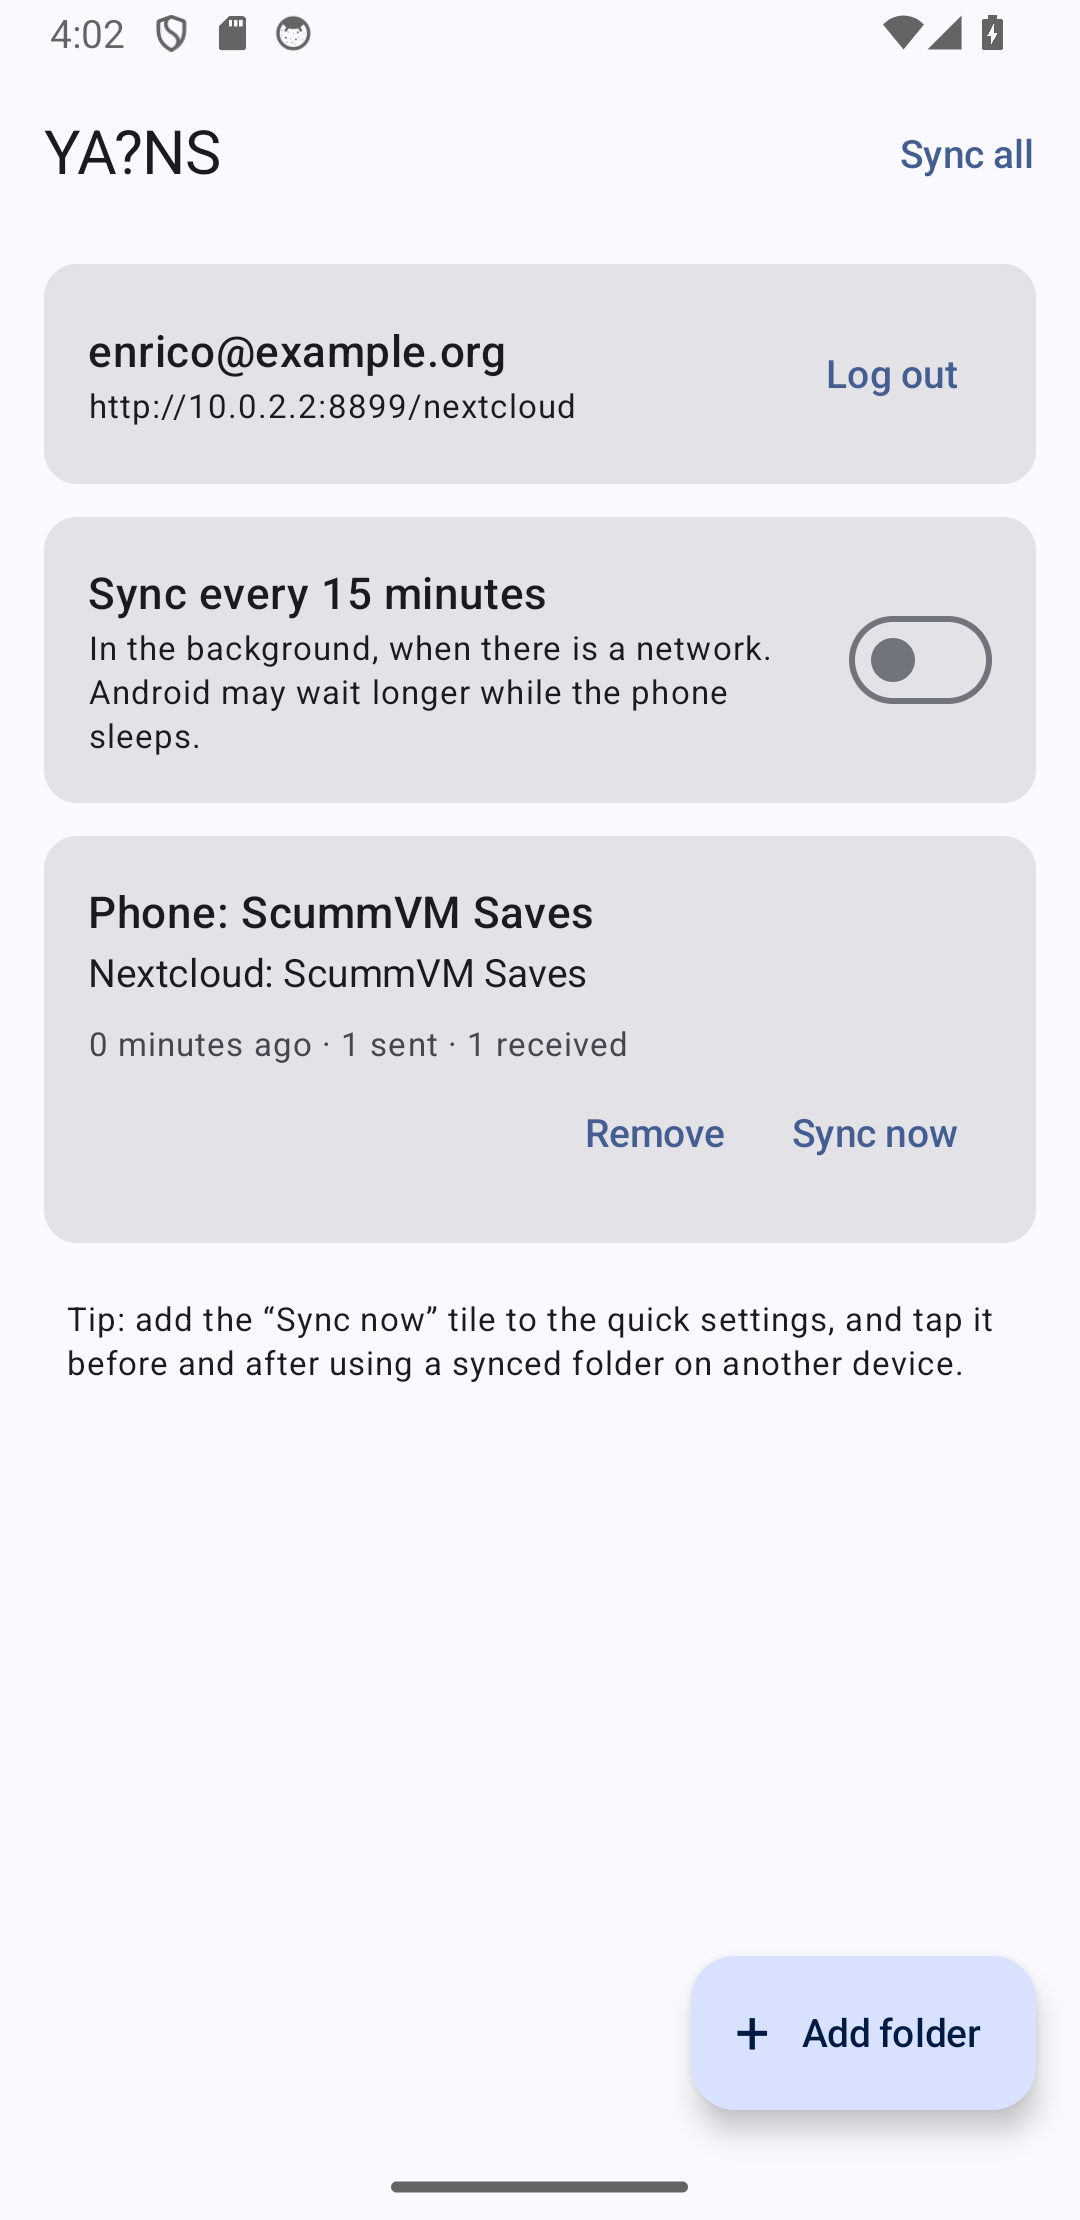
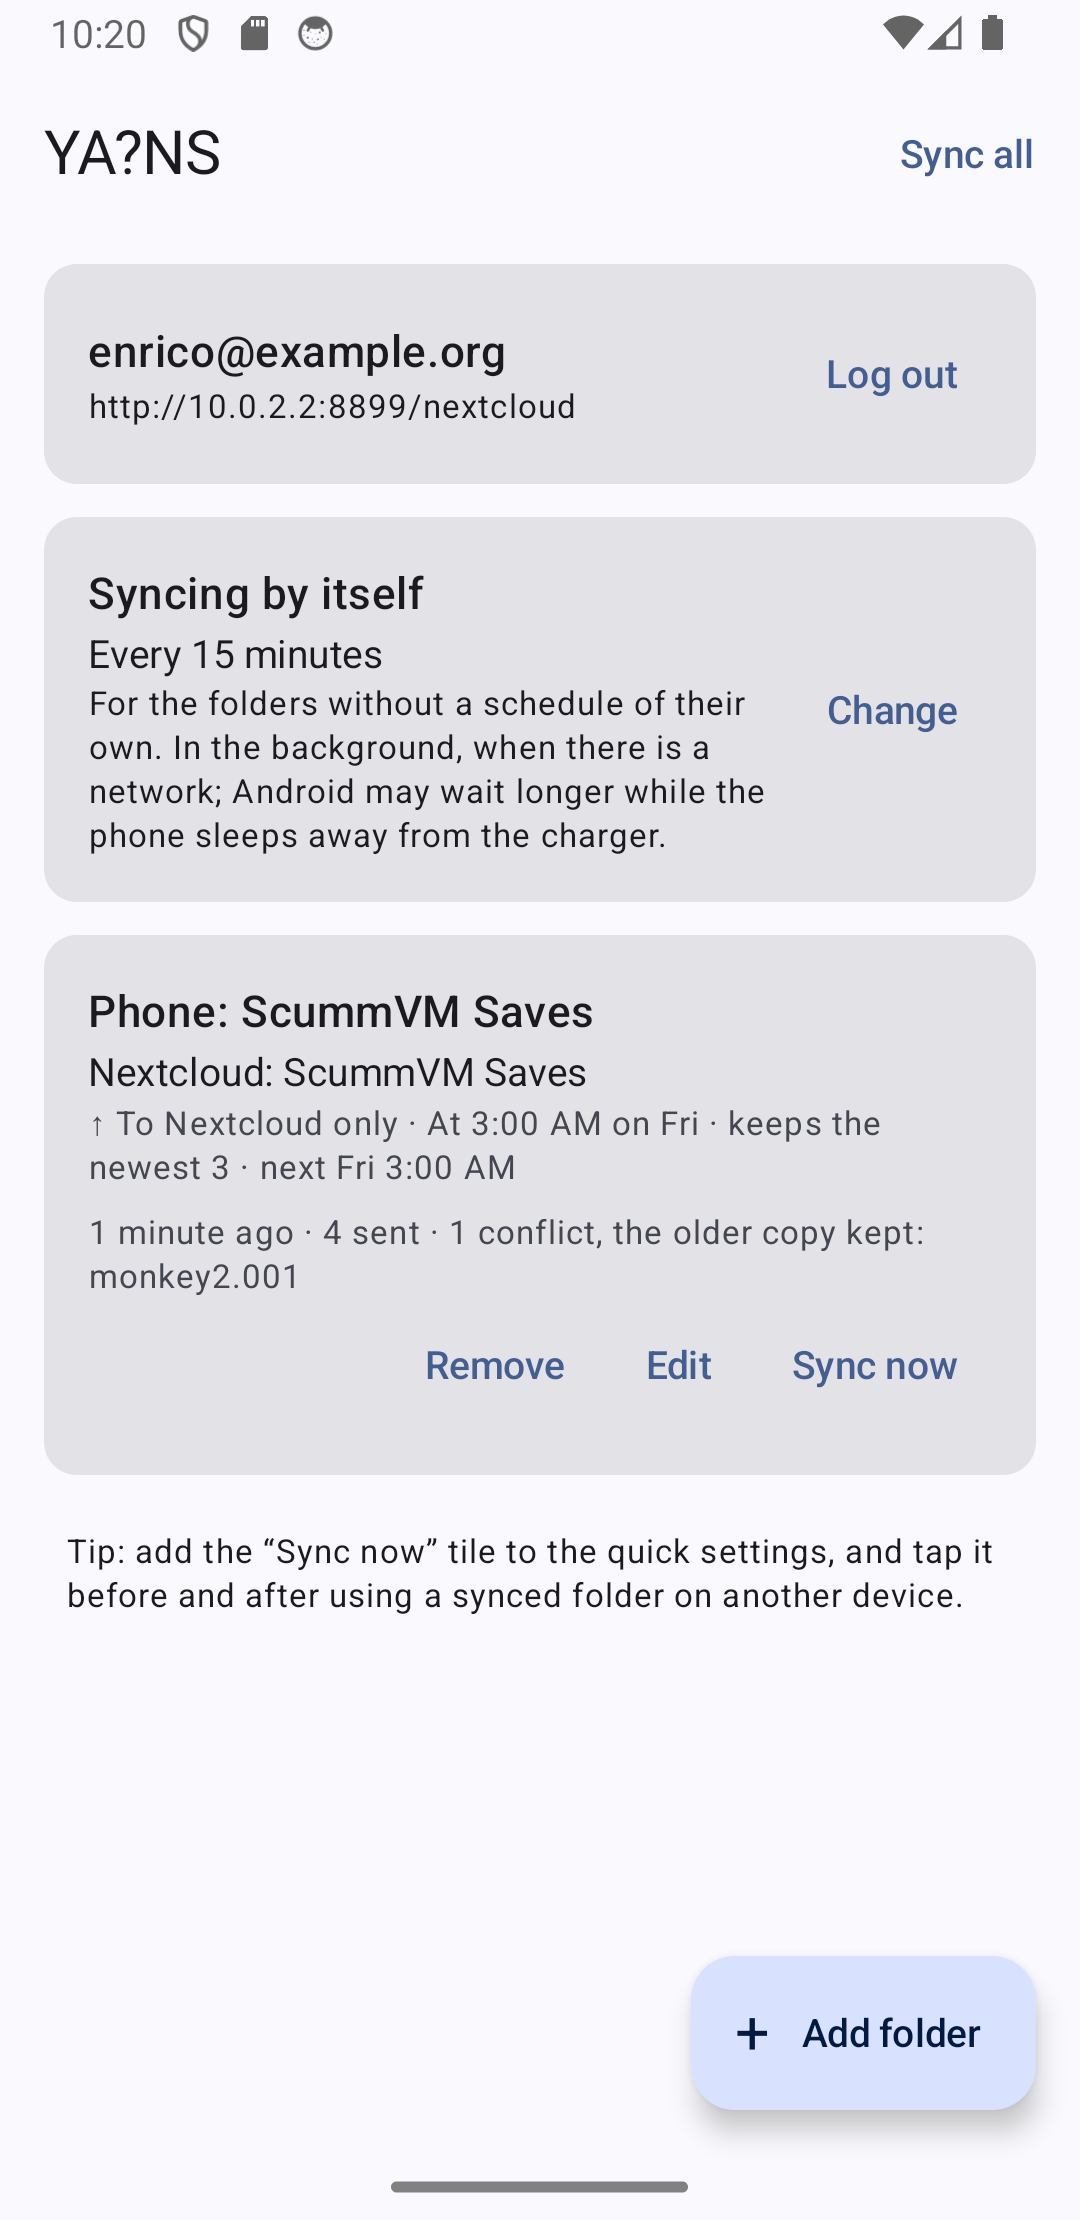
Screenshots of 0.3.0; an example server in the tests
Claude-Session: https://claude.ai/code/session_01PpAnQhomkwb5cHsEyFk2zy

diff --git a/core/src/test/kotlin/eu/studiodeanna/yans/sync/NextcloudTest.kt b/core/src/test/kotlin/eu/studiodeanna/yans/sync/NextcloudTest.kt
@@ -43,7 +43,7 @@ class NextcloudTest {
 
     @Test
     fun `server addresses are read as typed`() {
-        assertEquals("https://enricoirene.ddns.net/nextcloud", Nextcloud.serverUrl("enricoirene.ddns.net/nextcloud/")!!.toString())
+        assertEquals("https://cloud.example.org/nextcloud", Nextcloud.serverUrl("cloud.example.org/nextcloud/")!!.toString())
         assertEquals("https://cloud.example.org/", Nextcloud.serverUrl(" https://cloud.example.org/index.php/apps/files ")!!.toString())
         assertNull(Nextcloud.serverUrl(""))
     }
